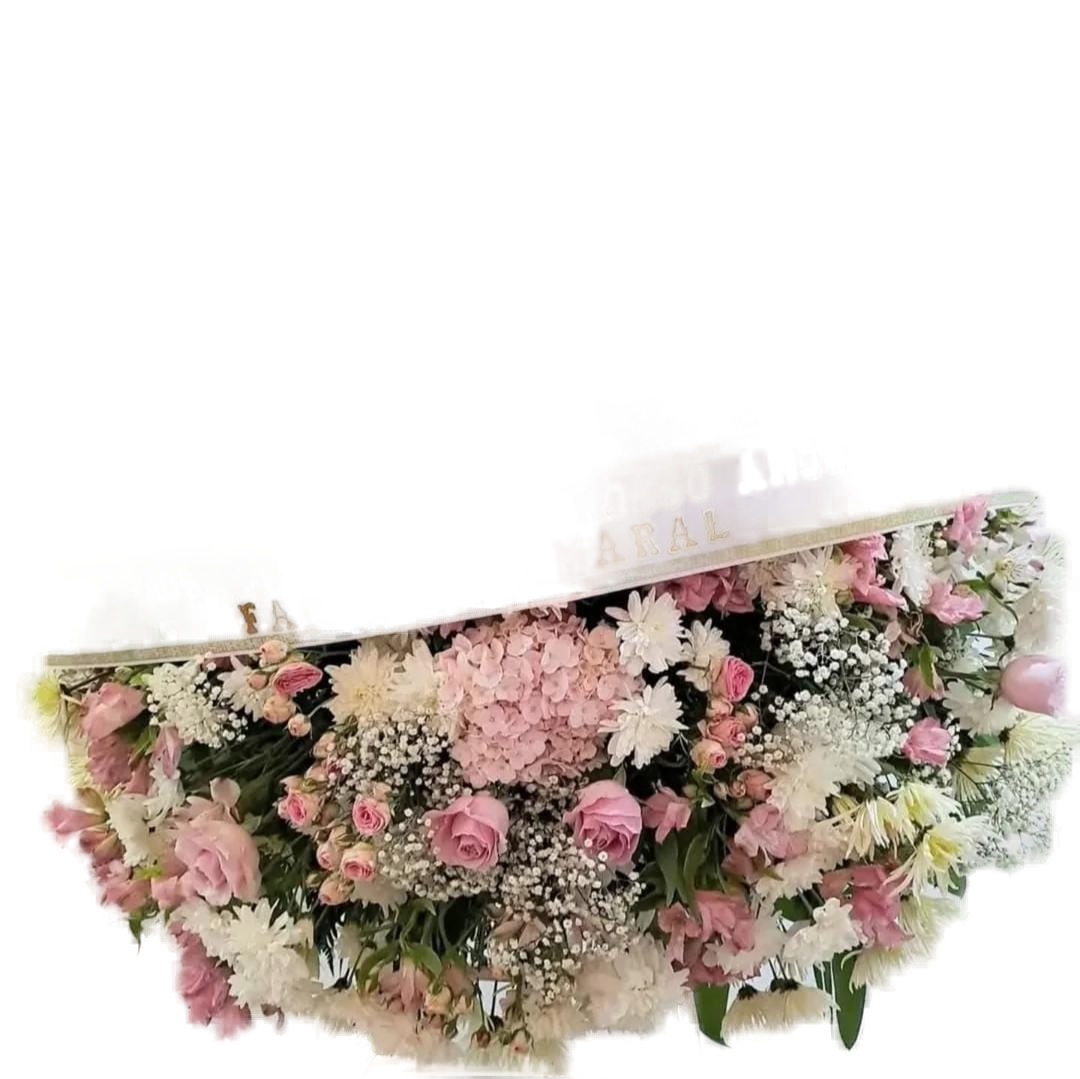
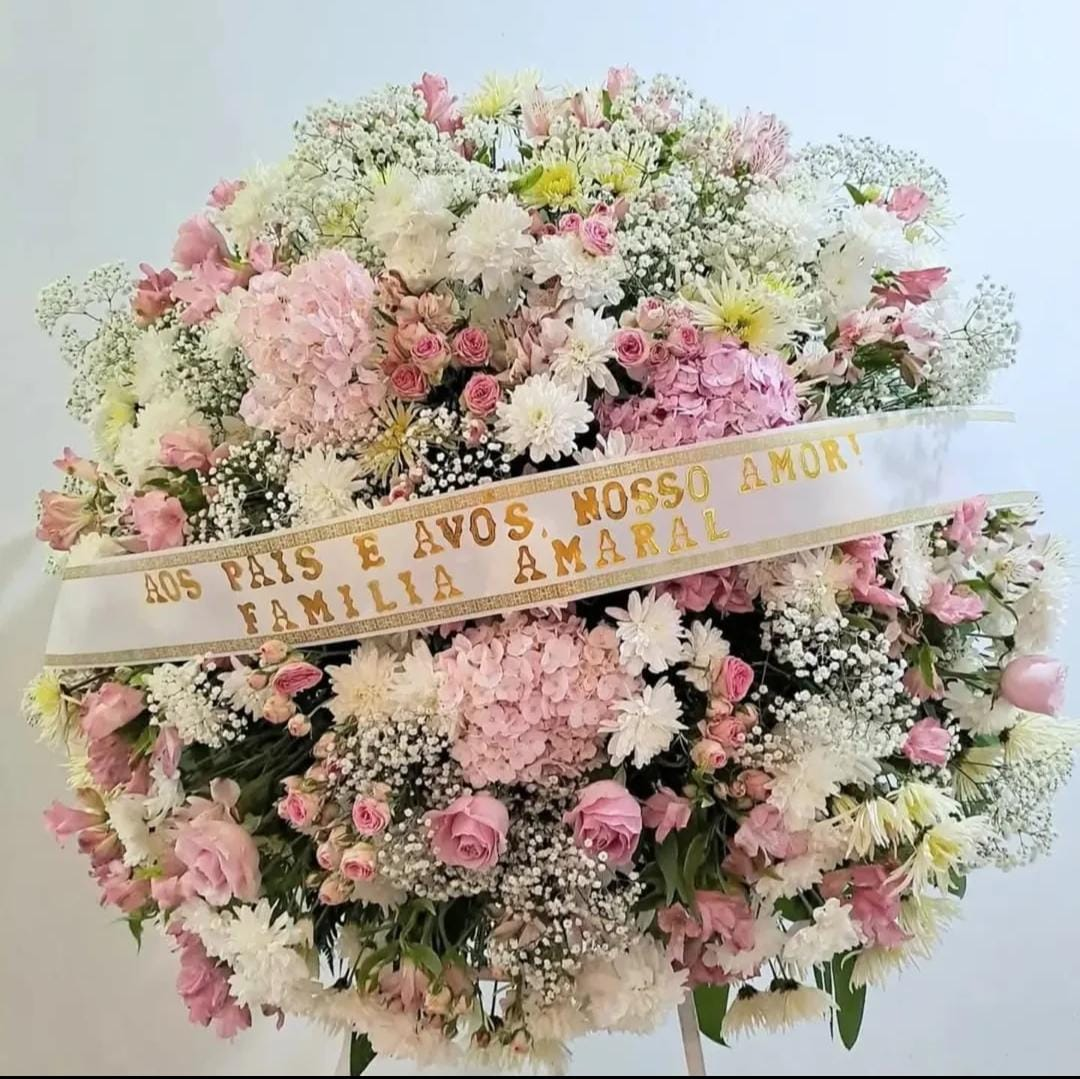
Changes

diff --git a/src/routes/pedido.tsx b/src/routes/pedido.tsx
@@ -94,6 +94,20 @@ function PedidoPage() {
       `Total pago: ${formatBRL(pedido?.total_centavos ?? 0)}`
     );
   };
+  const whatsappUrl = paid
+    ? `https://wa.me/${WHATSAPP_NUMBER}?text=${encodeURIComponent(mensagem())}`
+    : undefined;
+
+  useEffect(() => {
+    if (!whatsappUrl || !pedido?.order_nsu) return;
+    const redirectKey = `carolina-whatsapp-${pedido.order_nsu}`;
+    if (sessionStorage.getItem(redirectKey)) return;
+    sessionStorage.setItem(redirectKey, "1");
+    const timer = window.setTimeout(() => {
+      window.location.href = whatsappUrl;
+    }, 1200);
+    return () => window.clearTimeout(timer);
+  }, [pedido?.order_nsu, whatsappUrl]);
 
   return (
     <main className="min-h-screen bg-background px-6 py-20">
@@ -123,7 +137,7 @@ function PedidoPage() {
               </div>
               <p className="mt-2 text-xs">
                 {paid
-                  ? "Agora é só enviar os detalhes para a loja pelo WhatsApp."
+                  ? "Abrindo o WhatsApp com os detalhes do pedido..."
                   : "Assim que o pagamento for aprovado, o botão do WhatsApp será liberado automaticamente."}
               </p>
             </div>
@@ -147,7 +161,7 @@ function PedidoPage() {
             </div>
 
             <a
-              href={paid ? `https://wa.me/${WHATSAPP_NUMBER}?text=${encodeURIComponent(mensagem())}` : undefined}
+              href={whatsappUrl}
               target="_blank"
               rel="noopener noreferrer"
               aria-disabled={!paid}

diff --git a/src/routes/api/public/infinitepay.ts b/src/routes/api/public/infinitepay.ts
@@ -20,6 +20,9 @@ export const Route = createFileRoute("/api/public/infinitepay")({
         try {
           const body = (await request.json()) as any;
           const { handle, order_nsu, items, customer, redirect_url } = body ?? {};
+          const webhookToken = process.env.INFINITEPAY_WEBHOOK_TOKEN;
+          const webhookUrl = new URL("/api/public/infinitepay-webhook", request.url);
+          if (webhookToken) webhookUrl.searchParams.set("token", webhookToken);
 
           if (!handle || !order_nsu || !Array.isArray(items) || items.length === 0) {
             return json({ error: "Parâmetros inválidos: handle, order_nsu e items são obrigatórios." }, 400);
@@ -38,6 +41,7 @@ export const Route = createFileRoute("/api/public/infinitepay")({
               handle,
               order_nsu,
               items,
+              webhook_url: webhookUrl.toString(),
               ...(typeof redirect_url === "string" && redirect_url.startsWith("http")
                 ? { redirect_url }
                 : {}),

diff --git a/src/routes/api/public/infinitepay-webhook.ts b/src/routes/api/public/infinitepay-webhook.ts
@@ -90,12 +90,15 @@ export const Route = createFileRoute("/api/public/infinitepay-webhook")({
             .eq("order_nsu", orderNsu)
             .maybeSingle();
 
+          if (!pedido) return new Response("pedido não encontrado", { status: 404 });
+          if (pedido.status === "pago") return new Response("ok (já confirmado)", { status: 200 });
+
           await supabaseAdmin
             .from("pedidos")
             .update({ status: "pago", paid_at: new Date().toISOString() })
             .eq("order_nsu", orderNsu);
 
-          const itens = Array.isArray(pedido?.itens) ? (pedido!.itens as any[]) : [];
+          const itens = Array.isArray(pedido.itens) ? (pedido.itens as any[]) : [];
           const lista = itens
             .map((i) => `• ${i.name} — ${i.quantity}x — ${formatBRL(i.price * i.quantity)}`)
             .join("\n");

diff --git a/roadmap.md b/roadmap.md
@@ -2,3 +2,4 @@
 - [x] Descompactar Pictures171.zip e distribuir as 34 fotos entre Rosas, Girassóis, Flores do Campo e Kits.
 - [x] Atualizar a foto do Buquê Quatro Girassóis e corrigir a caixa de bombom para R$ 149,00.
 - [x] Otimizar imagens, cartões e atualizações do carrinho para deixar a loja mais fluida.
+- [x] Restaurar as coroas 1, 6 e 8 inteiras e encaminhar o pedido ao WhatsApp após o pagamento.
